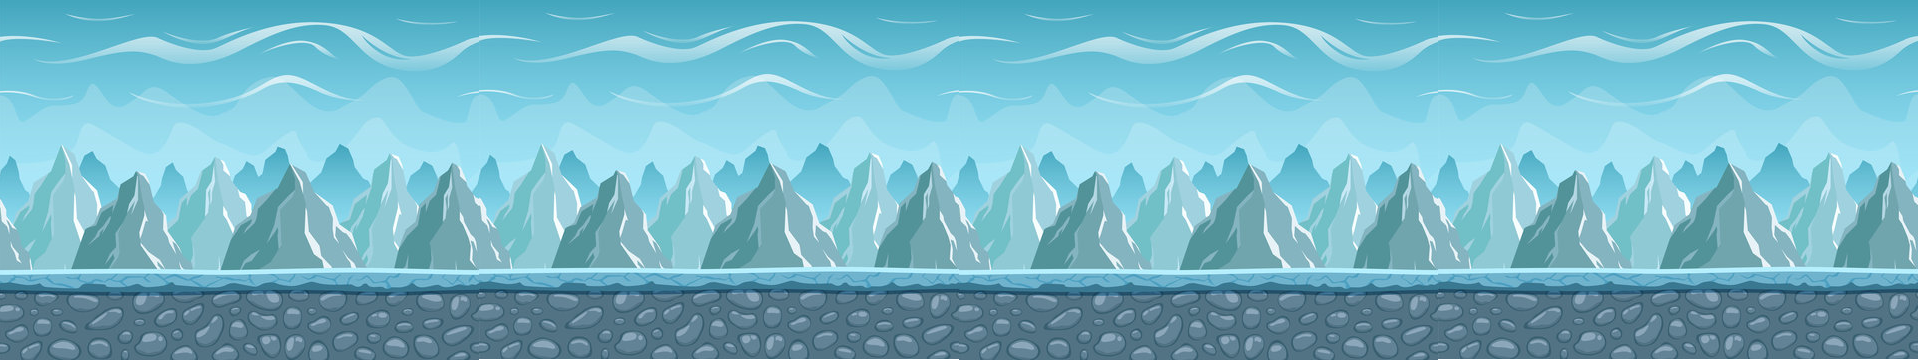
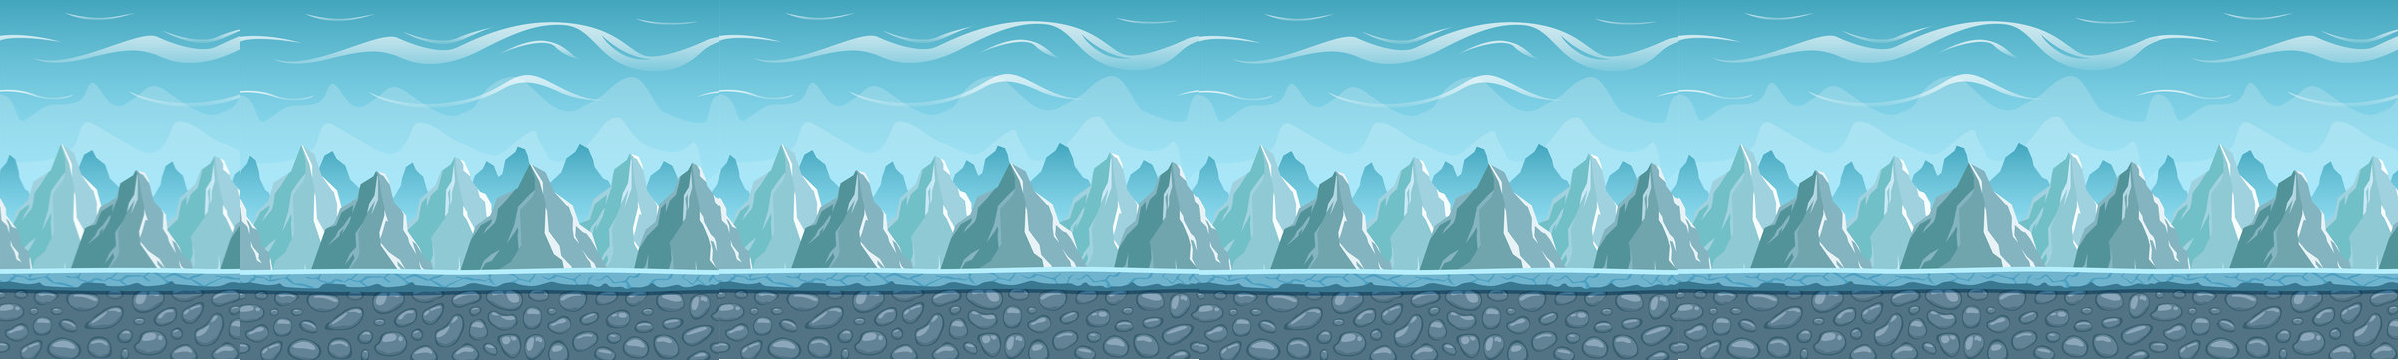
change.basic_stage's_two&three

diff --git a/Background.py b/Background.py
@@ -3,18 +3,28 @@ import game_framework
 import server
 
 
-class SWORD_BACK:
-    def __init__(self):
-        self.image = load_image('basic_stage/sword_basic_stage.png')
-        self.canvas_width = get_canvas_width()
+class BACK:
+    def __init__(self, n):
+        self.stage_num = n
+        self.image = [load_image('basic_stage/sword_basic_stage.png'),
+                      load_image('basic_stage/spark_basic_stage.png'),
+                      load_image('basic_stage/bomber_basic_stage.png'),
+                      load_image('boss_stage/sword_boss_stage.png'),
+                      load_image('boss_stage/spark_boss_stage.png'),
+                      load_image('boss_stage/bomber_boss_stage.png'),
+                      load_image('boss_stage/last_boss_stage.png')]
+        if self.stage_num <= 2:
+            self.canvas_width = get_canvas_width()
+        else:
+            self.canvas_width = 1200
         self.canvas_height = get_canvas_height()
-        self.w = self.image.w
-        self.h = self.image.h
+        self.w = self.image[self.stage_num].w
+        self.h = self.image[self.stage_num].h
 
     def draw(self):
-        self.image.clip_draw_to_origin(self.window_left, self.window_bottom,
-                                       self.canvas_width, self.canvas_height,
-                                       0, 0)
+        self.image[self.stage_num].clip_draw_to_origin(self.window_left, self.window_bottom,
+                                                       self.canvas_width, self.canvas_height,
+                                                       0, 0)
 
     def update(self):
         self.window_left = clamp(0,
@@ -27,64 +37,4 @@ class SWORD_BACK:
     def handle_event(self, event):
         pass
 
-class SPARK_BACK:
-    def __init__(self):
-        self.image = load_image('basic_stage/spark_basic_stage.png')
-
-    def draw(self):
-        self.image.clip_composite_draw(0, 0, 640, 360, 0, '',
-                                       w, h, 800, 400)
-
-    def update(self):
-        pass
-class BOMBER_BACK:
-    def __init__(self):
-        self.image = load_image('basic_stage/bomber_basic_stage.png')
-
-    def draw(self):
-        self.image.clip_composite_draw(0, 0, 400, 200, 0, '',
-                                       w, h, 800, 400)
-
-    def update(self):
-        pass
-class SWORD_BOSS_BACK:
-    def __init__(self):
-        self.image = load_image('boss_stage/sword_boss_stage.png')
-
-    def draw(self):
-        self.image.clip_composite_draw(0, 0, 736 // 2, 414, 0, '',
-                                       w, h, 800, 400)
-
-    def update(self):
-        pass
-class SPARK_BOSS_BACK:
-    def __init__(self):
-        self.image = load_image('boss_stage/spark_boss_stage.png')
-
-    def draw(self):
-        self.image.clip_composite_draw(0, 0, 1000 // 2, 700, 0, '',
-                                       w, h, 800, 400)
-
-    def update(self):
-        pass
-class BOMBER_BOSS_BACK:
-    def __init__(self):
-        self.image = load_image('boss_stage/bomber_boss_stage.png')
-
-    def draw(self):
-        self.image.clip_composite_draw(0, 0, 1920 // 2, 696, 0, '',
-                                       w, h, 800, 400)
-
-    def update(self):
-        pass
-class LAST_BOSS_BACK:
-    def __init__(self):
-        self.image = load_image('boss_stage/last_boss_stage.png')
-
-    def draw(self):
-        self.image.clip_composite_draw(0, 0, 600 // 2, 424, 0, '',
-                                       w, h, 800, 400)
-
-    def update(self):
-        pass
 

diff --git a/play_state.py b/play_state.py
@@ -5,9 +5,7 @@ import server
 #from Background import FixedBackground as Background
 
 from move_kirby import Kirby
-from Background import SWORD_BACK, SPARK_BACK, BOMBER_BACK
-from Background import SWORD_BOSS_BACK, SPARK_BOSS_BACK, BOMBER_BOSS_BACK, LAST_BOSS_BACK
-from move_boss import SWORD_BOSS, SPARK_BOSS, BOMBER_BOSS, LAST_BOSS
+from Background import BACK
 from move_monster import BASIC_MONSTER, SWORD_MONSTER, SPARK_MONSTER, BOMBER_MONSTER
 
 server.kirby = None
@@ -35,7 +33,7 @@ def enter():
 
     server.kirby = Kirby()
     server.monster = [BASIC_MONSTER(), SWORD_MONSTER(), SPARK_MONSTER(), BOMBER_MONSTER()]
-    server.background = SWORD_BACK()
+    server.background = BACK(3)
 
     game_world.add_object(server.background, 0)
     game_world.add_object(server.monster[0], 1)

diff --git a/move_kirby.py b/move_kirby.py
@@ -170,6 +170,7 @@ class JUMP:
 
     @staticmethod
     def draw(self):
+        self.sx = self.x - server.background.window_left
         match self.mode:
             case 0:
                 if self.face_dir_x == -1:
@@ -340,7 +341,7 @@ class Kirby:
         self.pos_boom = 0
         self.move_boom = 0
 
-        self.sx = 0
+        self.sx = 30
         self.x, self.y = 30, 100
         self.kx, self.ky = 70, 55
         self.face_dir_x, self.dir_x = 1, 0
